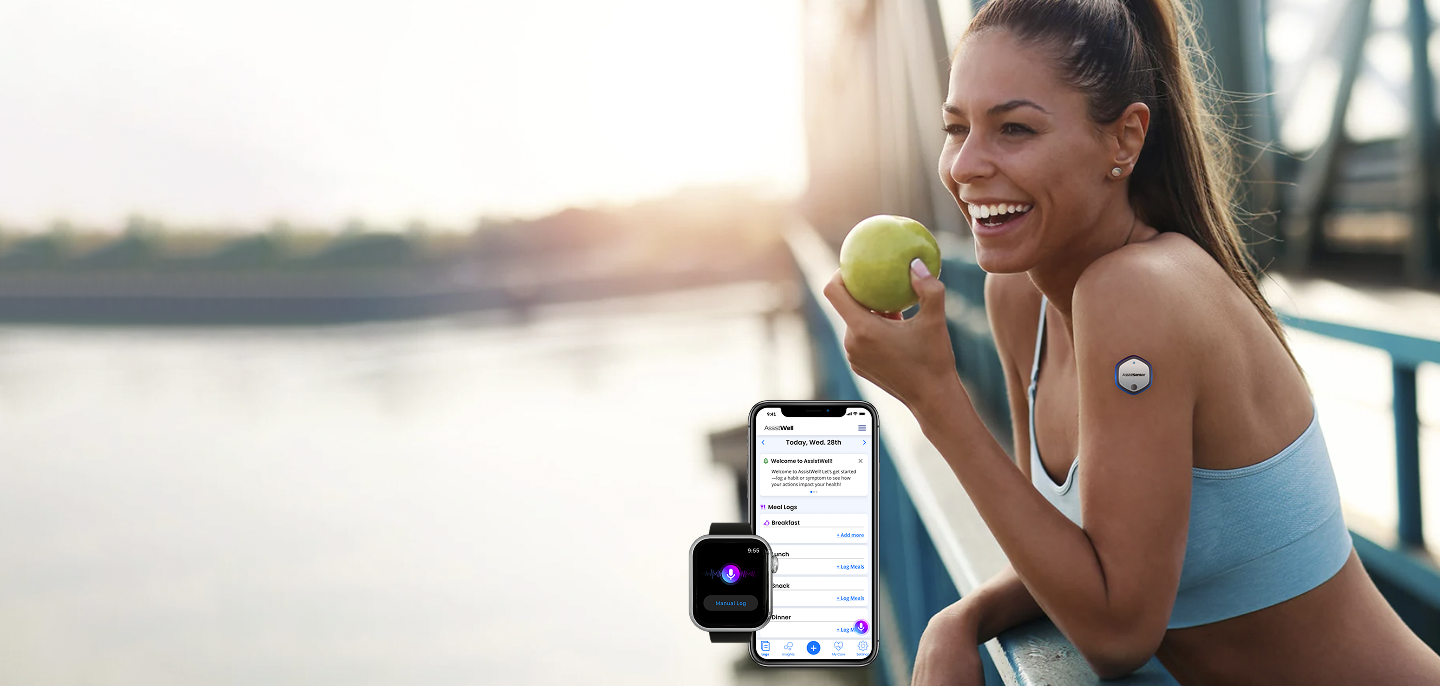
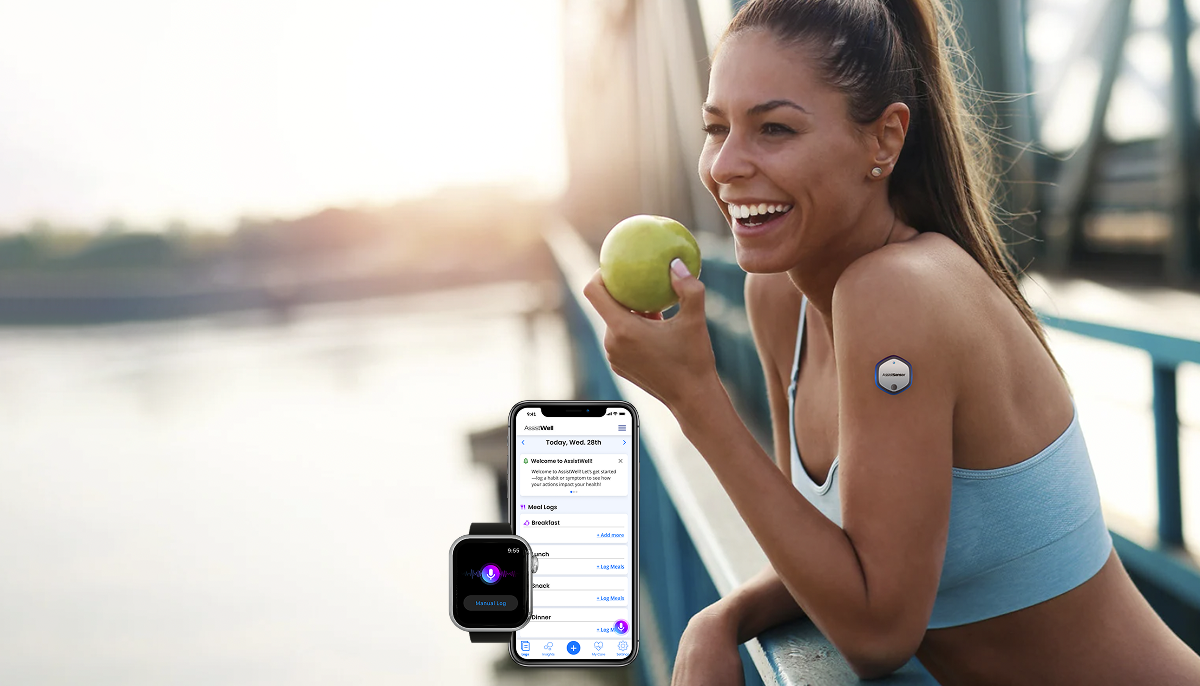
updated hero image

diff --git a/index.html b/index.html
@@ -236,7 +236,7 @@
         class="w3-image"
         src="./AW_Images/Home_Hero5.png"
         alt="Happy Woman wearing AssistSensor smiling eating apple"
-        width="width: 100%;"
+        width="1600"
         height="800"
       />
       <div class="w3-display-left w3-text-black" style="padding-left: 70px">
